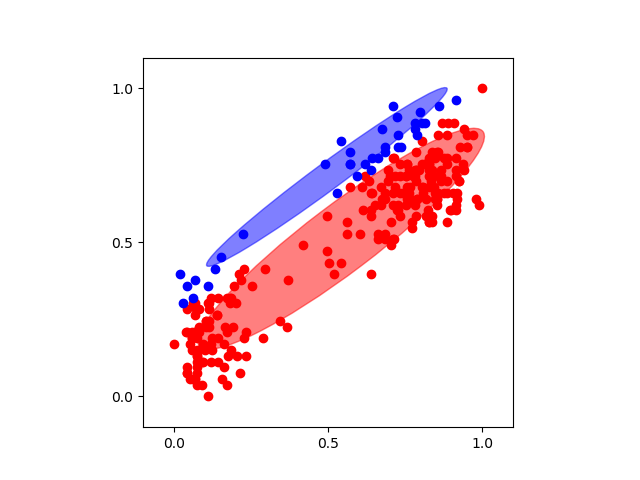
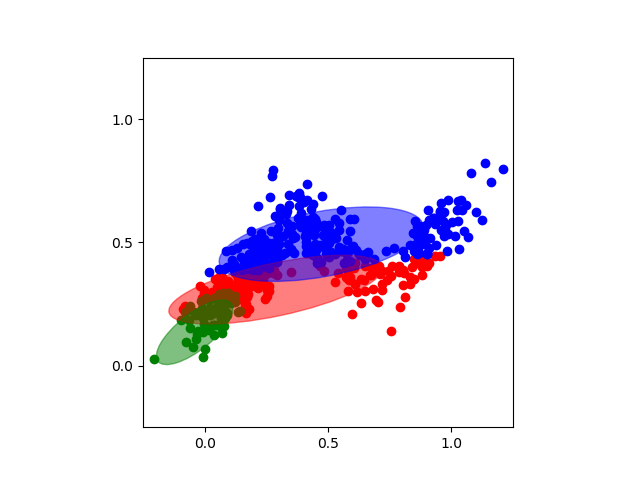
Finished blog post on GMMs and Kmeans.

diff --git a/ml/cluster/gmm/example.py b/ml/cluster/gmm/example.py
@@ -4,6 +4,7 @@ Gaussian mixture model, a complete example.
 
 import matplotlib.pyplot as plt
 import numpy as np
+from   scipy.interpolate import griddata
 
 from   ml.cluster.gmm.model import GMM
 from   ml import datasets
@@ -11,20 +12,60 @@ from   ml.cluster.gmm import viz
 
 # ------------------------------------------------------------------------------
 
-np.random.seed(0)
+# Seed 3, n-samples = 1000
+np.random.seed(9)
 
-X   = datasets.load_oldfaithful()
-gmm = GMM(n_components=2)
+# ------------------------------------------------------------------------------
+
+X, Y = datasets.load_synthetic()
+
+plt.scatter(X[:, 0], X[:, 1], c='#cc00cc')
+plt.xlim(-0.25, 1.25)
+plt.ylim(-0.25, 1.25)
+
+plt.locator_params(nbins=4)
+plt.gca().set_aspect('equal', adjustable='box')
+plt.draw()
+plt.savefig('ml/cluster/gmm/figures/dataset.png')
+plt.clf()
+
+# plt.scatter(X[:, 0], X[:, 1], c=Y)
+
+gmm = GMM(n_components=3)
 gmm.fit(X)
+plt.clf()
+
+print(gmm.weights)
+
+X_sim, Y_sim = gmm.sample(X.shape[1], 100)
+colors = ['r' if y == 0 else ('b' if y == 1 else 'g') for y in Y_sim]
+
+plt.scatter(X_sim[:, 0], X_sim[:, 1], c=colors)
+plt.xlim(-0.25, 1.25)
+plt.ylim(-0.25, 1.25)
+plt.locator_params(nbins=4)
+plt.gca().set_aspect('equal', adjustable='box')
+plt.savefig('ml/cluster/gmm/figures/fantasy_samples.png')
+
+# ------------------------------------------------------------------------------
 
 plt.clf()
-n_samples = 100
-X_sim, Y_sim = gmm.sample(X.shape[1], n_samples)
-x = X_sim[:, 0]
-y = X_sim[:, 1]
-plt.scatter(x, y, c=Y_sim)
 
-# plt.xlim(x.min(), x.max())
-# plt.ylim(y.min(), y.max())
+DX = 0.01
+xi = X[:, 0]
+yi = X[:, 1]
+X = np.arange(xi.min(), xi.max(), DX)
+Y = np.arange(yi.min(), yi.max(), DX)
+X, Y = np.meshgrid(X, Y)
+data = np.vstack([X.flatten(), Y.flatten()]).T
 
-plt.savefig('ml/cluster/gmm/figures/fantasy.png')
+Z = gmm.q(data)
+Z = Z.reshape(X.shape)
+
+plt.contour(X, Y, Z)
+
+plt.xlim(-0.25, 1.25)
+plt.ylim(-0.25, 1.25)
+plt.locator_params(nbins=4)
+plt.gca().set_aspect('equal', adjustable='box')
+plt.savefig('ml/cluster/gmm/figures/gmm_contours.png')

diff --git a/ml/cluster/gmm/model.py b/ml/cluster/gmm/model.py
@@ -19,7 +19,7 @@ class GMM():
 
 # ------------------------------------------------------------------------------
 
-    def fit(self, X, n_iters=50):
+    def fit(self, X, n_iters=100):
         """
         Performs EM inference on a mixture of Gaussians.
 
@@ -227,14 +227,35 @@ class GMM():
         ks = np.random.choice(range(self.K), p=self.weights, size=n_samples)
 
         X_sim = np.zeros((n_samples, dim))
-        Y_sim = np.zeros(n_samples)
+        Y_sim = np.zeros(n_samples)  # Cluster assignments.
 
         for i, k in enumerate(ks):
-            samp = np.random.multivariate_normal(self.means[k],
-                                                 self.covariances[k])
+            μk, Σk = self.means[k], self.covariances[k]
+            samp = np.random.multivariate_normal(μk, Σk)
             X_sim[i] = samp
             Y_sim[i] = k
         return X_sim, Y_sim
+
+# ------------------------------------------------------------------------------
+
+    def q(self, X):
+        """
+        :param Xi:
+        :param Yi:
+        :return:
+        """
+        N, D = X.shape
+        πs = self.weights
+        mixtures = np.zeros((self.K, N))
+        for k in range(self.K):
+            mix = np.zeros(N)
+            for i, x in enumerate(X):
+                μk, Σk = self.means[k], self.covariances[k]
+                proba = πs[k] * self.gaussian(x, μk, Σk)
+                mix[i] = proba
+            mixtures[k] = mix
+        assert len(mixtures) == self.K
+        return np.array(mixtures).sum(axis=0)
 
 # ------------------------------------------------------------------------------
 
@@ -243,3 +264,4 @@ def _fpath(*kwargs):
     """
     name = '_'.join([str(i) for i in kwargs])
     return 'ml/cluster/gmm/figures/%s.png' % name
+

diff --git a/ml/cluster/gmm/example_1d.py b/ml/cluster/gmm/example_1d.py
@@ -6,6 +6,8 @@ import matplotlib.pyplot as plt
 import numpy as np
 from   scipy.stats import multivariate_normal
 
+plt.style.use('seaborn-deep')
+
 # ------------------------------------------------------------------------------
 
 LINE_WEIGHT = 2
@@ -16,32 +18,35 @@ FONT_SIZE = 16
 x = np.arange(-4, 8, 0.1)
 
 # Create densities p(x) and mixture weights \pi_k.
+means = [-2, 1, 4]
+sigmas = [0.5, 2, 1]
 densities = np.array([
     multivariate_normal.pdf(x, mean=-2, cov=0.5),
     multivariate_normal.pdf(x, mean=1,  cov=2),
     multivariate_normal.pdf(x, mean=4,  cov=1)
 ])
-weights = np.array([0.5, 0.2, 0.3])
+weights = np.array([1/3., 1/3., 1/3.])
 
 # Sanity check configuration.
 assert len(densities) == len(weights)
 assert np.isclose(weights.sum(), 1.0)
 
-plt.figure(figsize=(8, 8))
+plt.figure(figsize=(8, 5))
 
 legend = []
 mixture = []
-for i, (d, w) in enumerate(zip(densities, weights)):
-    plt.plot(x, w * d, linewidth=LINE_WEIGHT, ls='--')
+for i, (d, w, c, mu, sigma) in enumerate(zip(densities, weights,
+                                             ['r', 'g', 'b'], means, sigmas)):
+    plt.plot(x, w * d, linewidth=LINE_WEIGHT, ls='--', c=c)
     mixture.append(w * d)
-    legend.append('Component %s, pi = %s' % (i+1, round(w, 2)))
+    legend.append('mean = %s, var = %s, weight = %s' % (mu, sigma, round(w, 2)))
 
 legend.append('GMM density')
 mixture = np.array(mixture).sum(axis=0)
 plt.plot(x, mixture, linewidth=LINE_WEIGHT, color='k')
 
-plt.xlabel('x')
-plt.ylabel('p(x)')
-plt.title('Mixture of 1D Gaussians', fontsize=FONT_SIZE)
-plt.legend(legend)
-plt.show()
+plt.xlabel('x',    fontsize=18)
+plt.ylabel('p(x)', fontsize=18)
+# plt.legend(legend)
+plt.savefig('ml/cluster/gmm/example_1d.png')
+# plt.show()

diff --git a/ml/cluster/gmm/viz.py b/ml/cluster/gmm/viz.py
@@ -24,7 +24,7 @@ def plot_log_likelihood(Y, fname):
 def plot_gmm(X, Y_, means, covariances, fname):
 
     fig, ax = plt.subplots(1, 1)
-    colors = ['r', 'b']
+    colors = ['r', 'b', 'g']
 
     for i, (mean, covar) in enumerate(zip(means, covariances)):
         v, w = np.linalg.eigh(covar)
@@ -49,14 +49,12 @@ def plot_gmm(X, Y_, means, covariances, fname):
 
         ax.add_artist(ell)
 
-    x = X[:, 0]
-    y = X[:, 1]
-    eps = 0.1
-    plt.xlim(x.min() - eps, x.max() + eps)
-    plt.ylim(y.min() - eps, y.max() + eps)
+    plt.xlim(-0.25, 1.25)
+    plt.ylim(-0.25, 1.25)
 
     plt.locator_params(nbins=4)
     plt.gca().set_aspect('equal', adjustable='box')
+    plt.draw()
     plt.savefig(fname)
     plt.clf()
 

diff --git a/ml/cluster/gmm/example_2d.py b/ml/cluster/gmm/example_2d.py
@@ -1,0 +1,19 @@
+"""=============================================================================
+Visualize a Gaussian mixture model.
+============================================================================="""
+
+import matplotlib.pyplot as plt
+import numpy as np
+from   scipy.stats import multivariate_normal
+
+xi = np.arange(-2, 2, 0.01)
+yi = np.arange(-2, 2, 0.01)
+xi, yi = np.meshgrid(xi, yi)
+
+x = np.vstack([xi.flatten(), yi.flatten()]).T
+z = multivariate_normal.pdf(x, mean=np.array([0.25, 0.3]), cov=np.array([[1, 0], [0.9, 1]]))
+zi = z.reshape(xi.shape)
+
+plt.gca().set_aspect('equal', adjustable='box')
+plt.contour(xi, yi, zi)
+plt.show()

diff --git a/ml/cluster/gmm/ex.py b/ml/cluster/gmm/ex.py
@@ -1,0 +1,19 @@
+import numpy as np
+import matplotlib.pyplot as plt
+import matplotlib.mlab as mlab
+
+
+def q(x, y):
+    g1 = mlab.bivariate_normal(x, y, 1.0, 1.0, -1, -1, -0.8)
+    g2 = mlab.bivariate_normal(x, y, 1.5, 0.8, 1, 2, 0.6)
+    return 0.6 * g1 + 28.4 * g2 / (0.6 + 28.4)
+
+
+dx = 0.01
+x = np.arange(-4, 4, dx)
+y = np.arange(-4, 4, dx)
+X, Y = np.meshgrid(x, y)
+Z = q(X, Y)
+
+plt.contour(X, Y, Z, 10, alpha=0.5)
+plt.savefig("samples.png")
